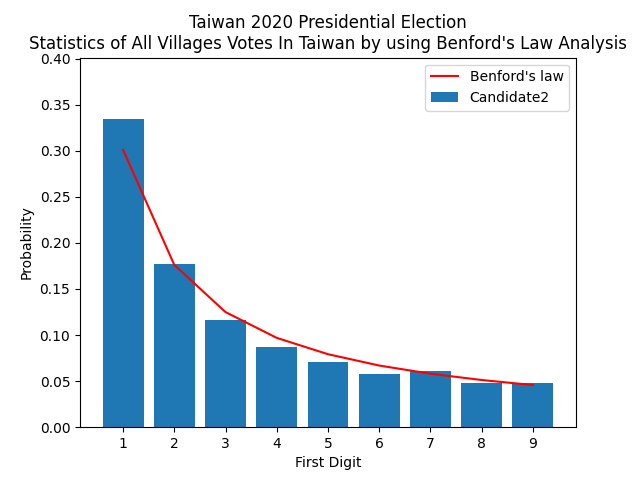
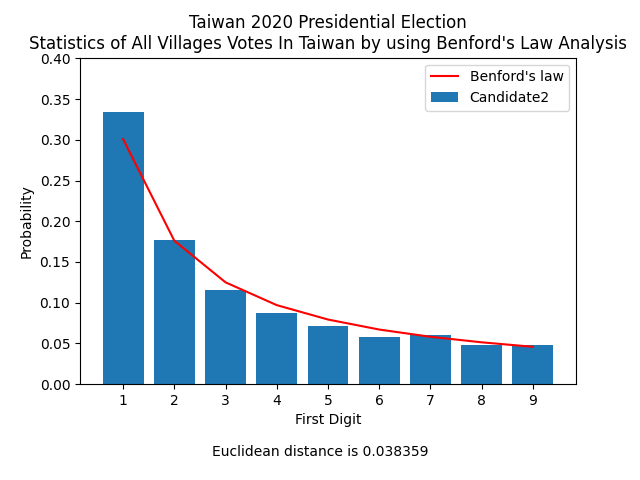
Add distance between election results and the original curve of Benford's law

diff --git a/visualize_data.py b/visualize_data.py
@@ -9,6 +9,7 @@ import re
 from os import listdir
 from os.path import isfile, join
 from pandas import DataFrame
+from scipy.spatial import distance
 
 from benfords_law import BenfordsLaw
 
@@ -45,7 +46,7 @@ def print_raw_data(file: str):
 
 def validate_by_benfords_law(files: list):
     for column in VERIFY_COLUMN:
-        print("processing '" + column + "'")
+        print("\nprocessing '" + column + "'")
 
         data_list = extract_column_data_from_files(column, files)
 
@@ -130,6 +131,11 @@ def output_data_to_graph(
     current_axes = plt.gca()
     current_axes.set_ylim([0, BenfordsLaw.BENFORDS_LAW_PROBABILITY[0] + 0.1])
 
+    dist = count_data_distance(list1=probability, list2=BenfordsLaw.BENFORDS_LAW_PROBABILITY)
+    print("dist=" + str(dist))
+    plt.figtext(0.5, 0.05, "Euclidean distance is " + str(round(dist, 6)), ha="center")
+    plt.subplots_adjust(bottom=0.2)
+
     output = os.path.join(output_folder, data_name + ".png")
     plt.savefig(output)
 
@@ -137,6 +143,11 @@ def output_data_to_graph(
 def remove_special(text):
     text = re.sub("[^a-zA-Z0-9]+", "", text)
     return text
+
+
+def count_data_distance(list1: list, list2: list) -> float:
+    dist = distance.euclidean(list1, list2)
+    return dist
 
 
 raw_data_files = [os.path.join(RAW_DATA_FOLDER, f) for f in listdir(
